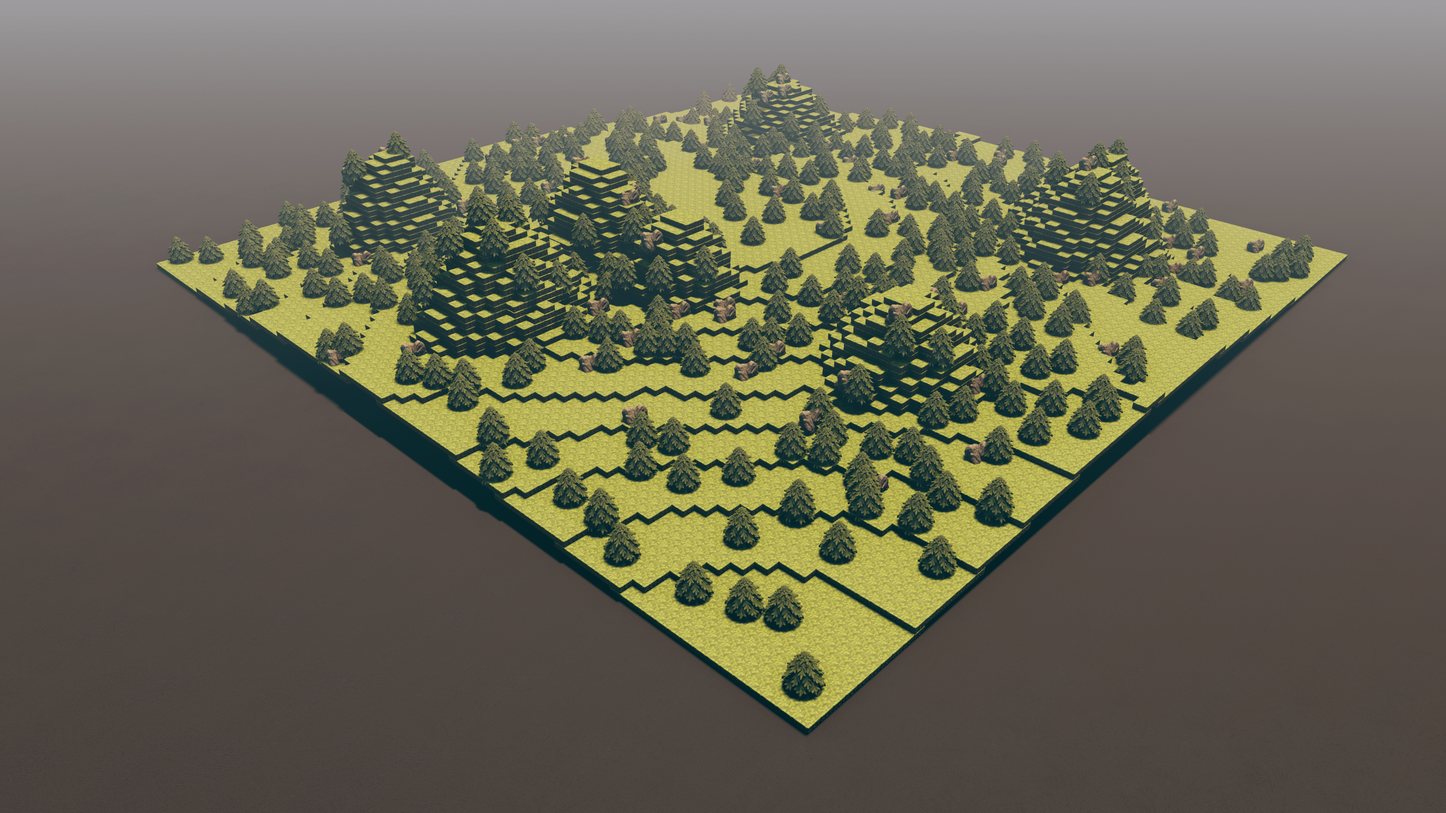
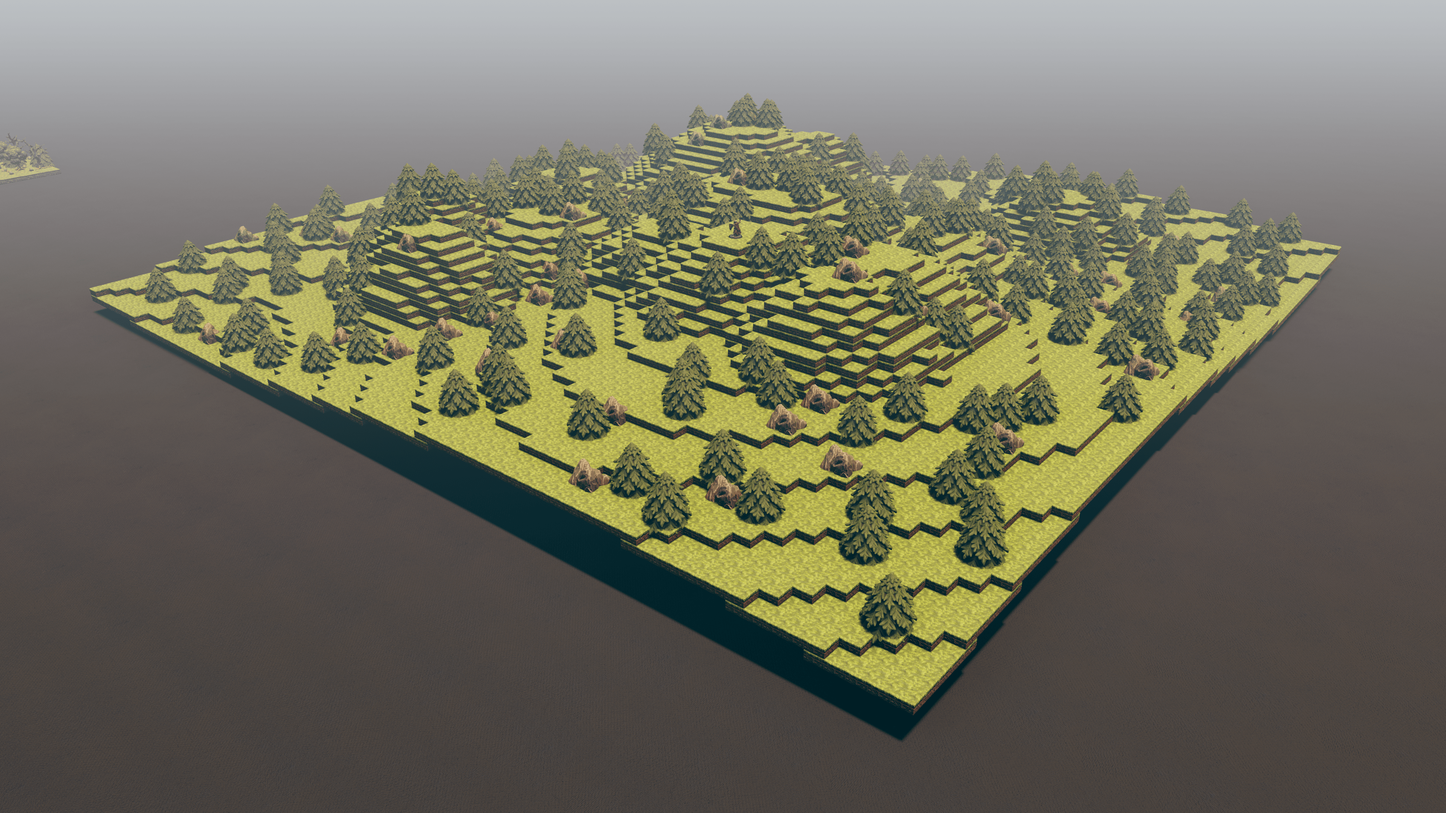
Improve Forest

diff --git a/cmd/examples/3dforest/main.go b/cmd/examples/3dforest/main.go
@@ -33,8 +33,8 @@ func main() {
 		Version:    2,
 	}
 
-	worldX := 80
-	worldY := 80
+	worldX := 70
+	worldY := 70
 
 	world := generateGround(worldX, worldY)
 
@@ -59,15 +59,21 @@ func generateGround(worldX, worldY int) [][]uint16 {
 
 	rand.Seed(time.Now().UnixNano())
 
-	iCount := rand.Intn(2) + 2
-	jCount := rand.Intn(2) + 2
+	iCount := rand.Intn(6) + 3
+
+	rand.Seed(time.Now().UnixNano())
+	jCount := rand.Intn(6) + 3
 
 	for i := 0; i < iCount; i++ {
 		for j := 0; j < jCount; j++ {
-			mountainX := 15 + (i+1)*3
-			mountainY := 15 + (j+1)*3
+			rand.Seed(time.Now().UnixNano())
+			mountainX := rand.Intn(30) + 15
 
-			gain := float64(rand.Intn(10.0) + 15.0)
+			rand.Seed(time.Now().UnixNano())
+			mountainY := rand.Intn(30) + 15
+
+			rand.Seed(time.Now().UnixNano())
+			gain := float64(rand.Intn(10.0) + 10.0)
 
 			mountain := gridhelper.MountainGenerator(mountainX, mountainY, gain)
 			world = gridhelper.BuildTerrain(world, mountain)

diff --git a/docs/examples/3dforest.md b/docs/examples/3dforest.md
@@ -5,7 +5,7 @@
 
 **Base64**
 ```bash
[2 lines of base64/hex data omitted]
 ```
 
 **[Code](../../cmd/examples/3dforest/main.go)**
@@ -45,8 +45,8 @@ func main() {
 		Version:    2,
 	}
 
-	worldX := 80
-	worldY := 80
+	worldX := 70
+	worldY := 70
 
 	world := generateGround(worldX, worldY)
 
@@ -71,15 +71,21 @@ func generateGround(worldX, worldY int) [][]uint16 {
 
 	rand.Seed(time.Now().UnixNano())
 
-	iCount := rand.Intn(2) + 2
-	jCount := rand.Intn(2) + 2
+	iCount := rand.Intn(6) + 3
 
-	for i := 0 ; i < iCount ; i++ {
-		for j := 0 ; j < jCount ; j++ {
-			mountainX := 15 + (i+1)*3
-			mountainY := 15 + (j+1)*3
+	rand.Seed(time.Now().UnixNano())
+	jCount := rand.Intn(6) + 3
 
-			gain := float64(rand.Intn(10.0) + 15.0)
+	for i := 0; i < iCount; i++ {
+		for j := 0; j < jCount; j++ {
+			rand.Seed(time.Now().UnixNano())
+			mountainX := rand.Intn(30) + 15
+
+			rand.Seed(time.Now().UnixNano())
+			mountainY := rand.Intn(30) + 15
+
+			rand.Seed(time.Now().UnixNano())
+			gain := float64(rand.Intn(10.0) + 10.0)
 
 			mountain := gridhelper.MountainGenerator(mountainX, mountainY, gain)
 			world = gridhelper.BuildTerrain(world, mountain)
@@ -148,7 +154,7 @@ func appendGroundToSlab(constructors map[string]assetloader.AssetInfo, generated
 			}
 
 			// Use the minimum neighborhood height to fill empty spaces
-			for k := minValue; k <= element ; k++ {
+			for k := minValue; k <= element; k++ {
 				addLayout(generatedSlab.Assets[0], uint16(i), uint16(j), k)
 			}
 		}

diff --git a/README.md b/README.md
@@ -7,7 +7,7 @@ TaleSpire Slab Generator
 
 **Base64**
 ```bash
[2 lines of base64/hex data omitted]
 ```
 
 More examples:
